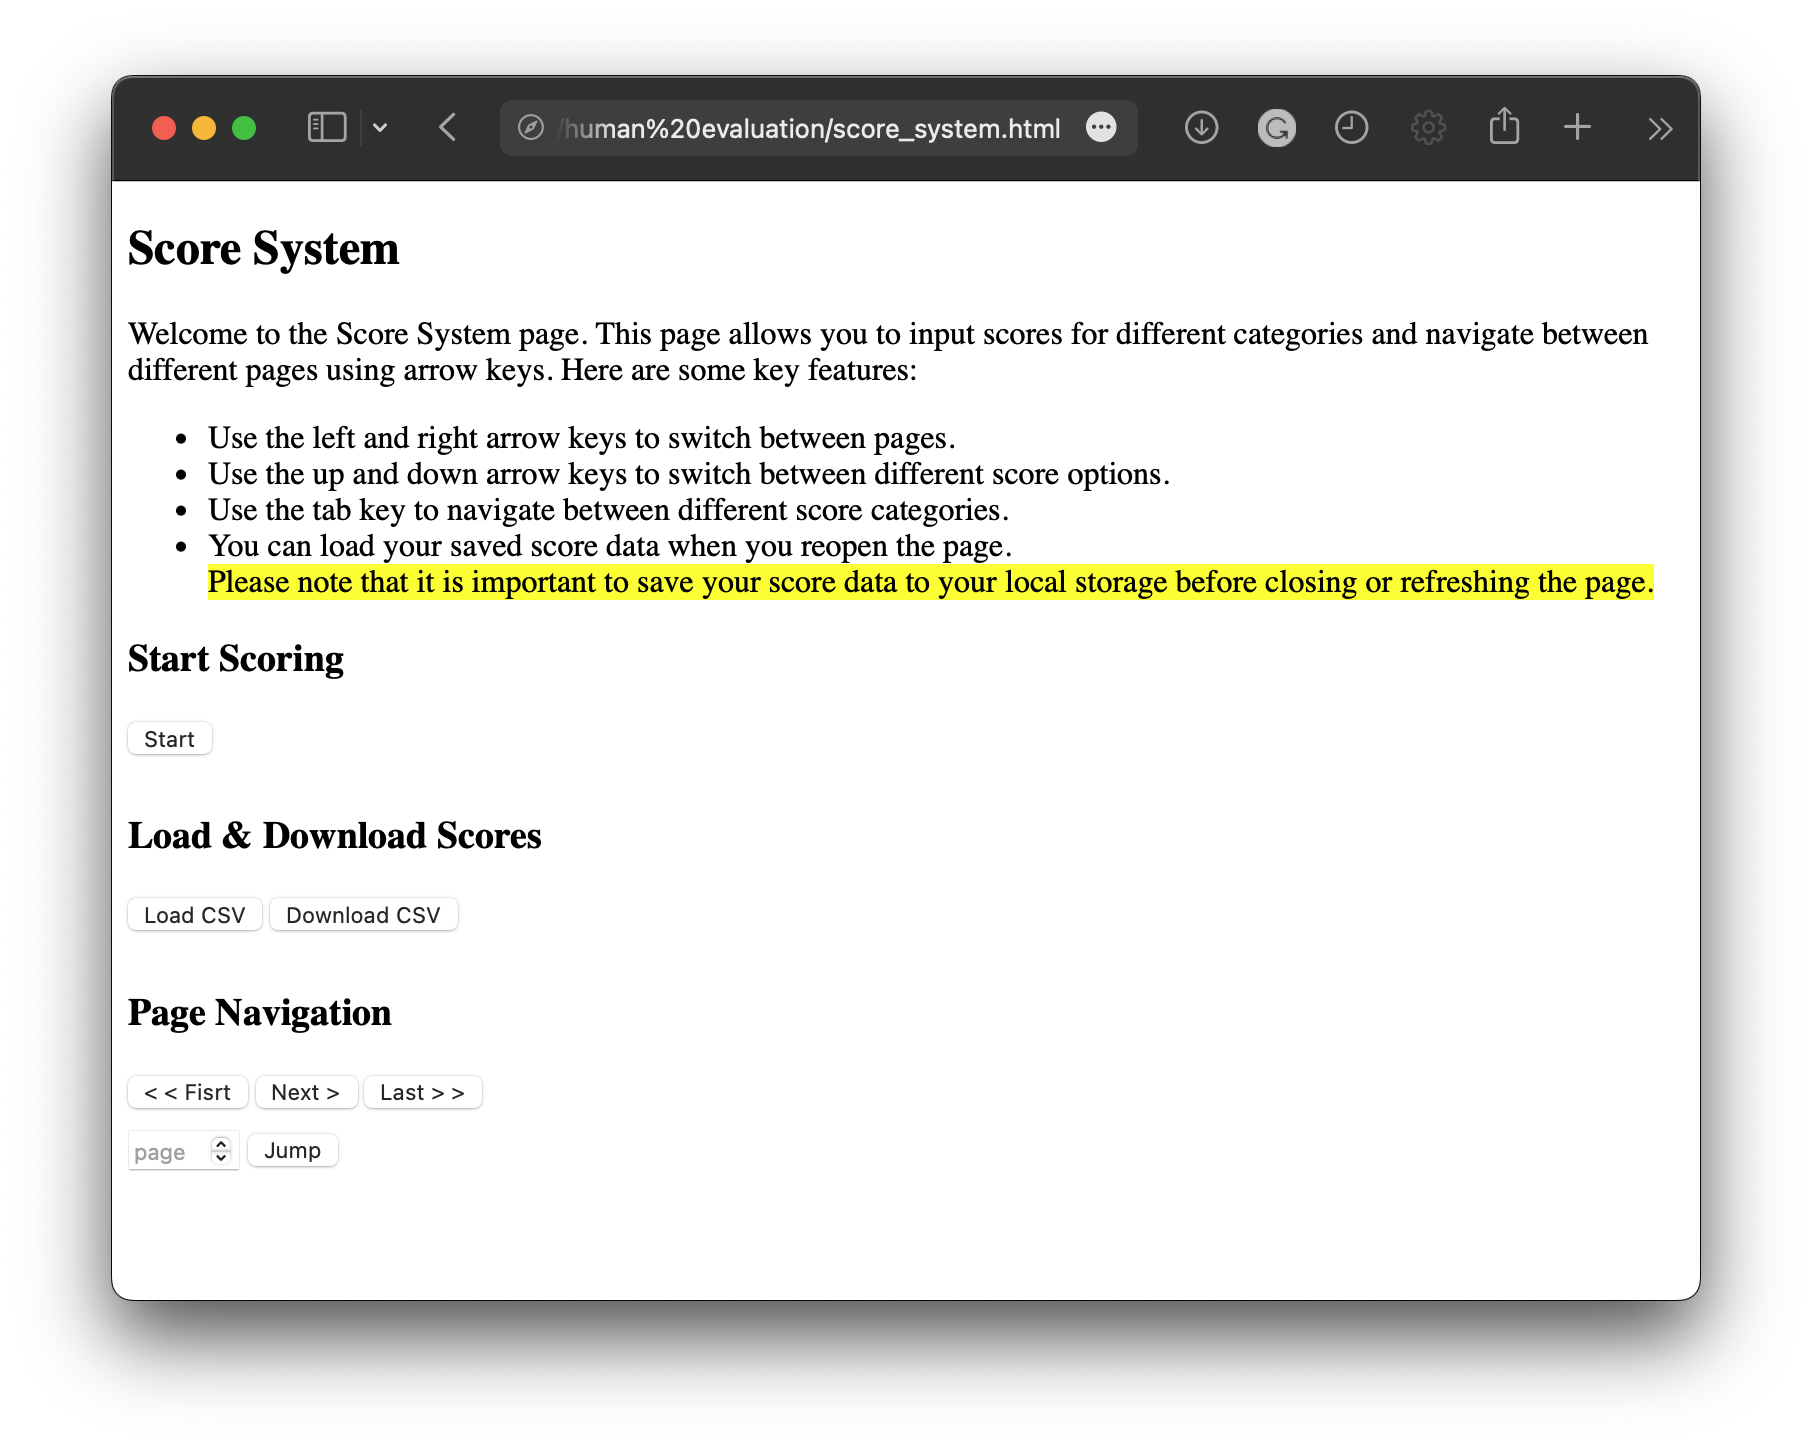
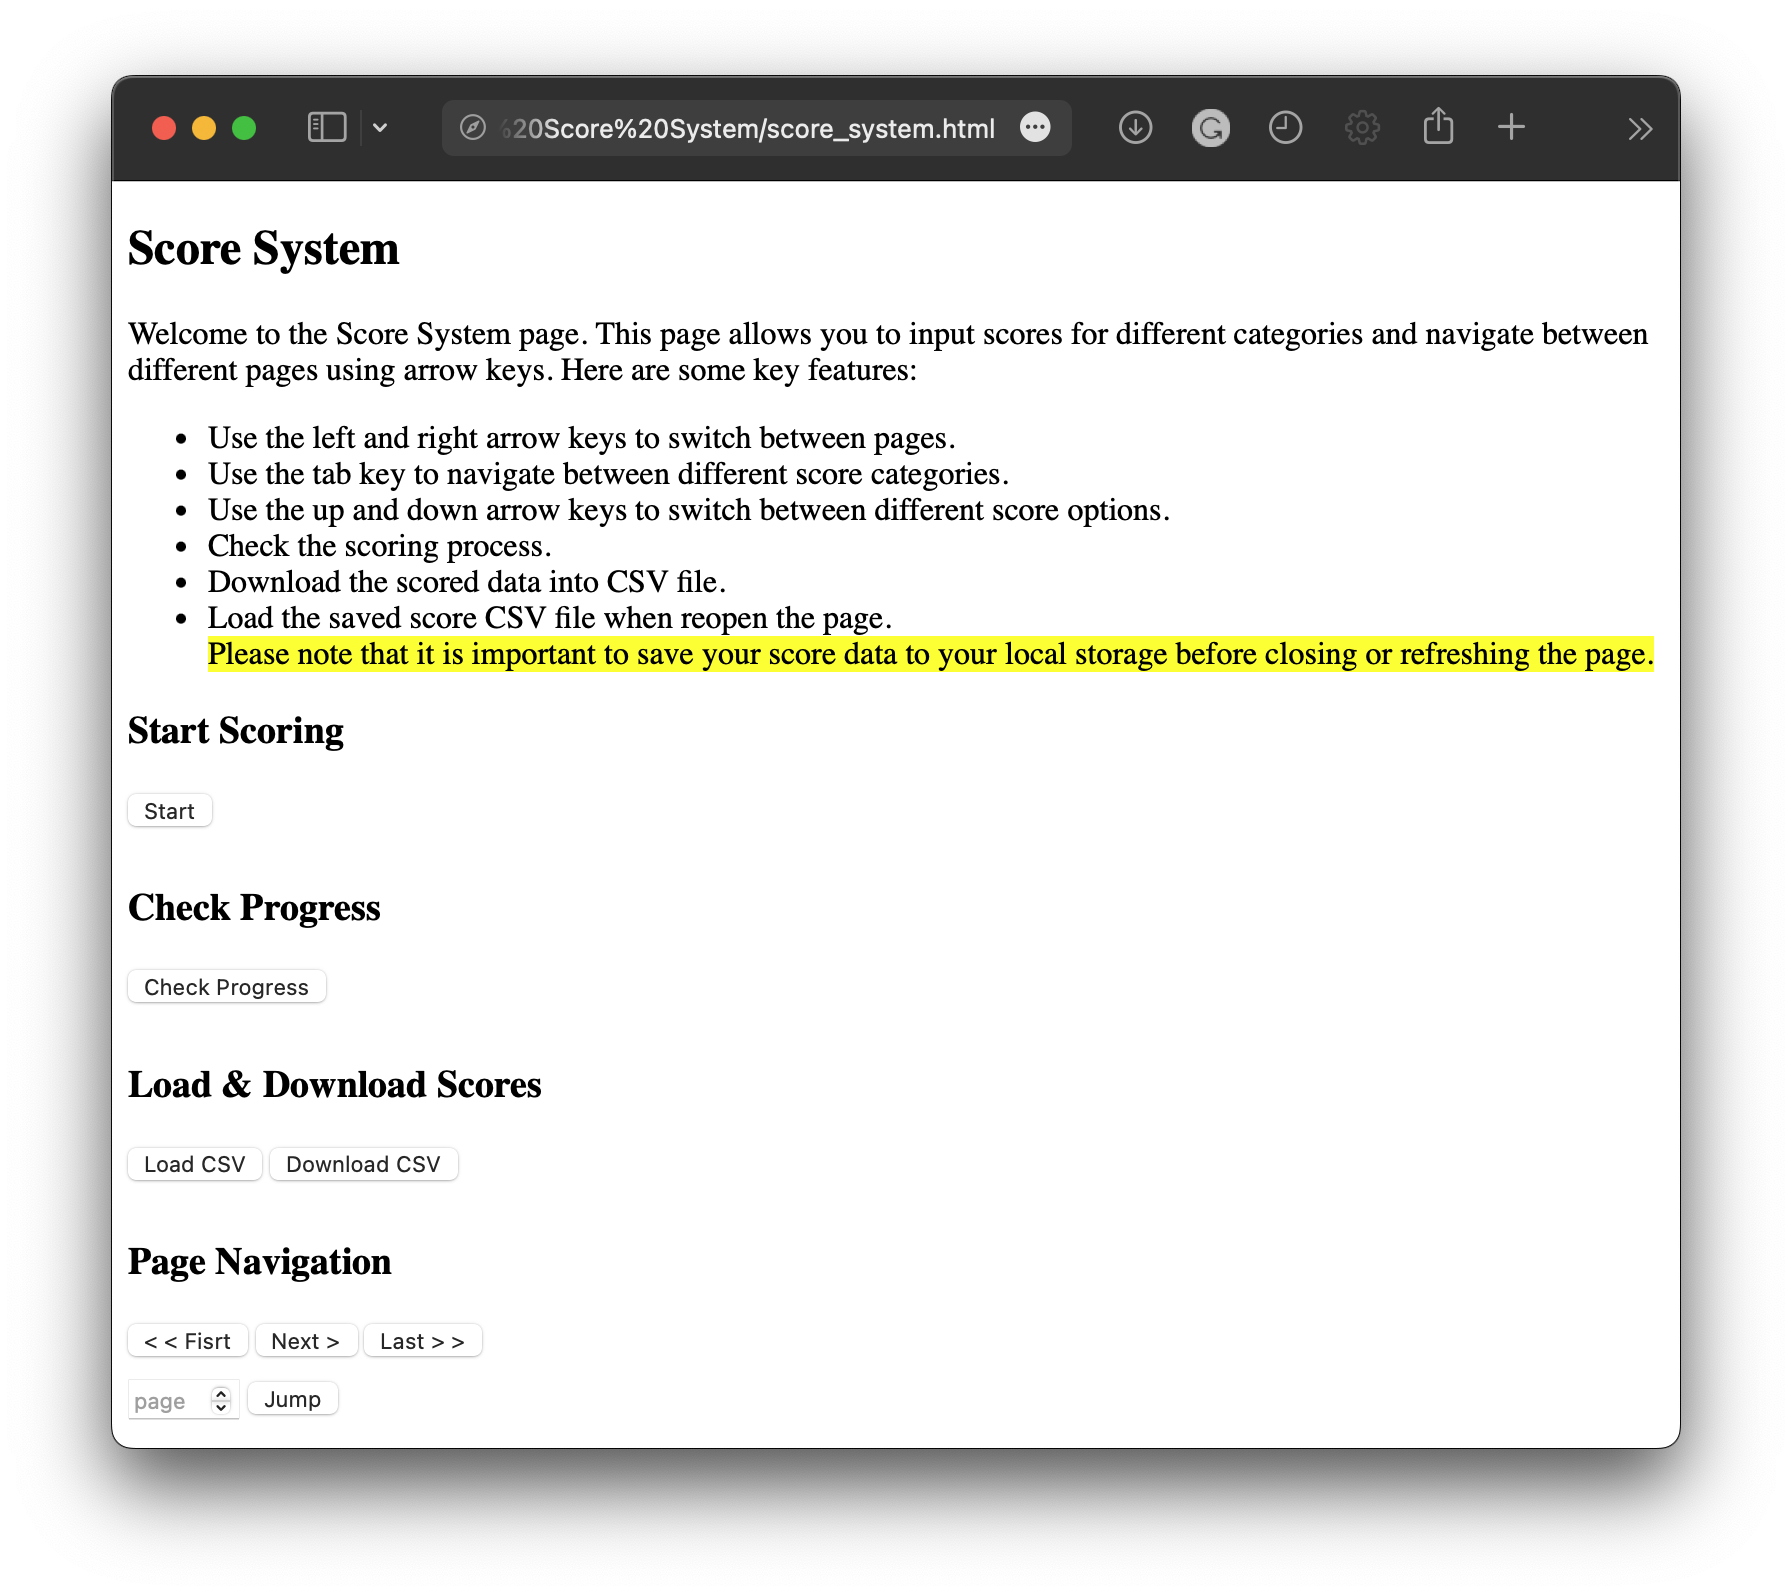
update file

diff --git a/score_system.html b/score_system.html
@@ -49,9 +49,11 @@
         </p>
         <ul>
             <li>Use the left and right arrow keys to switch between pages.</li>
-            <li>Use the up and down arrow keys to switch between different score options.</li>
             <li>Use the tab key to navigate between different score categories.</li>
-            <li>You can load your saved score data when you reopen the page.</li>
+            <li>Use the up and down arrow keys to switch between different score options.</li>
+            <li>Check the scoring process.</li>
+            <li>Download the scored data into CSV file.</li>
+            <li>Load the saved score CSV file when reopen the page.</li>
             <mark>Please note that it is important to save your score data to your local storage before closing or
                 refreshing the page.</mark>
         </ul>
